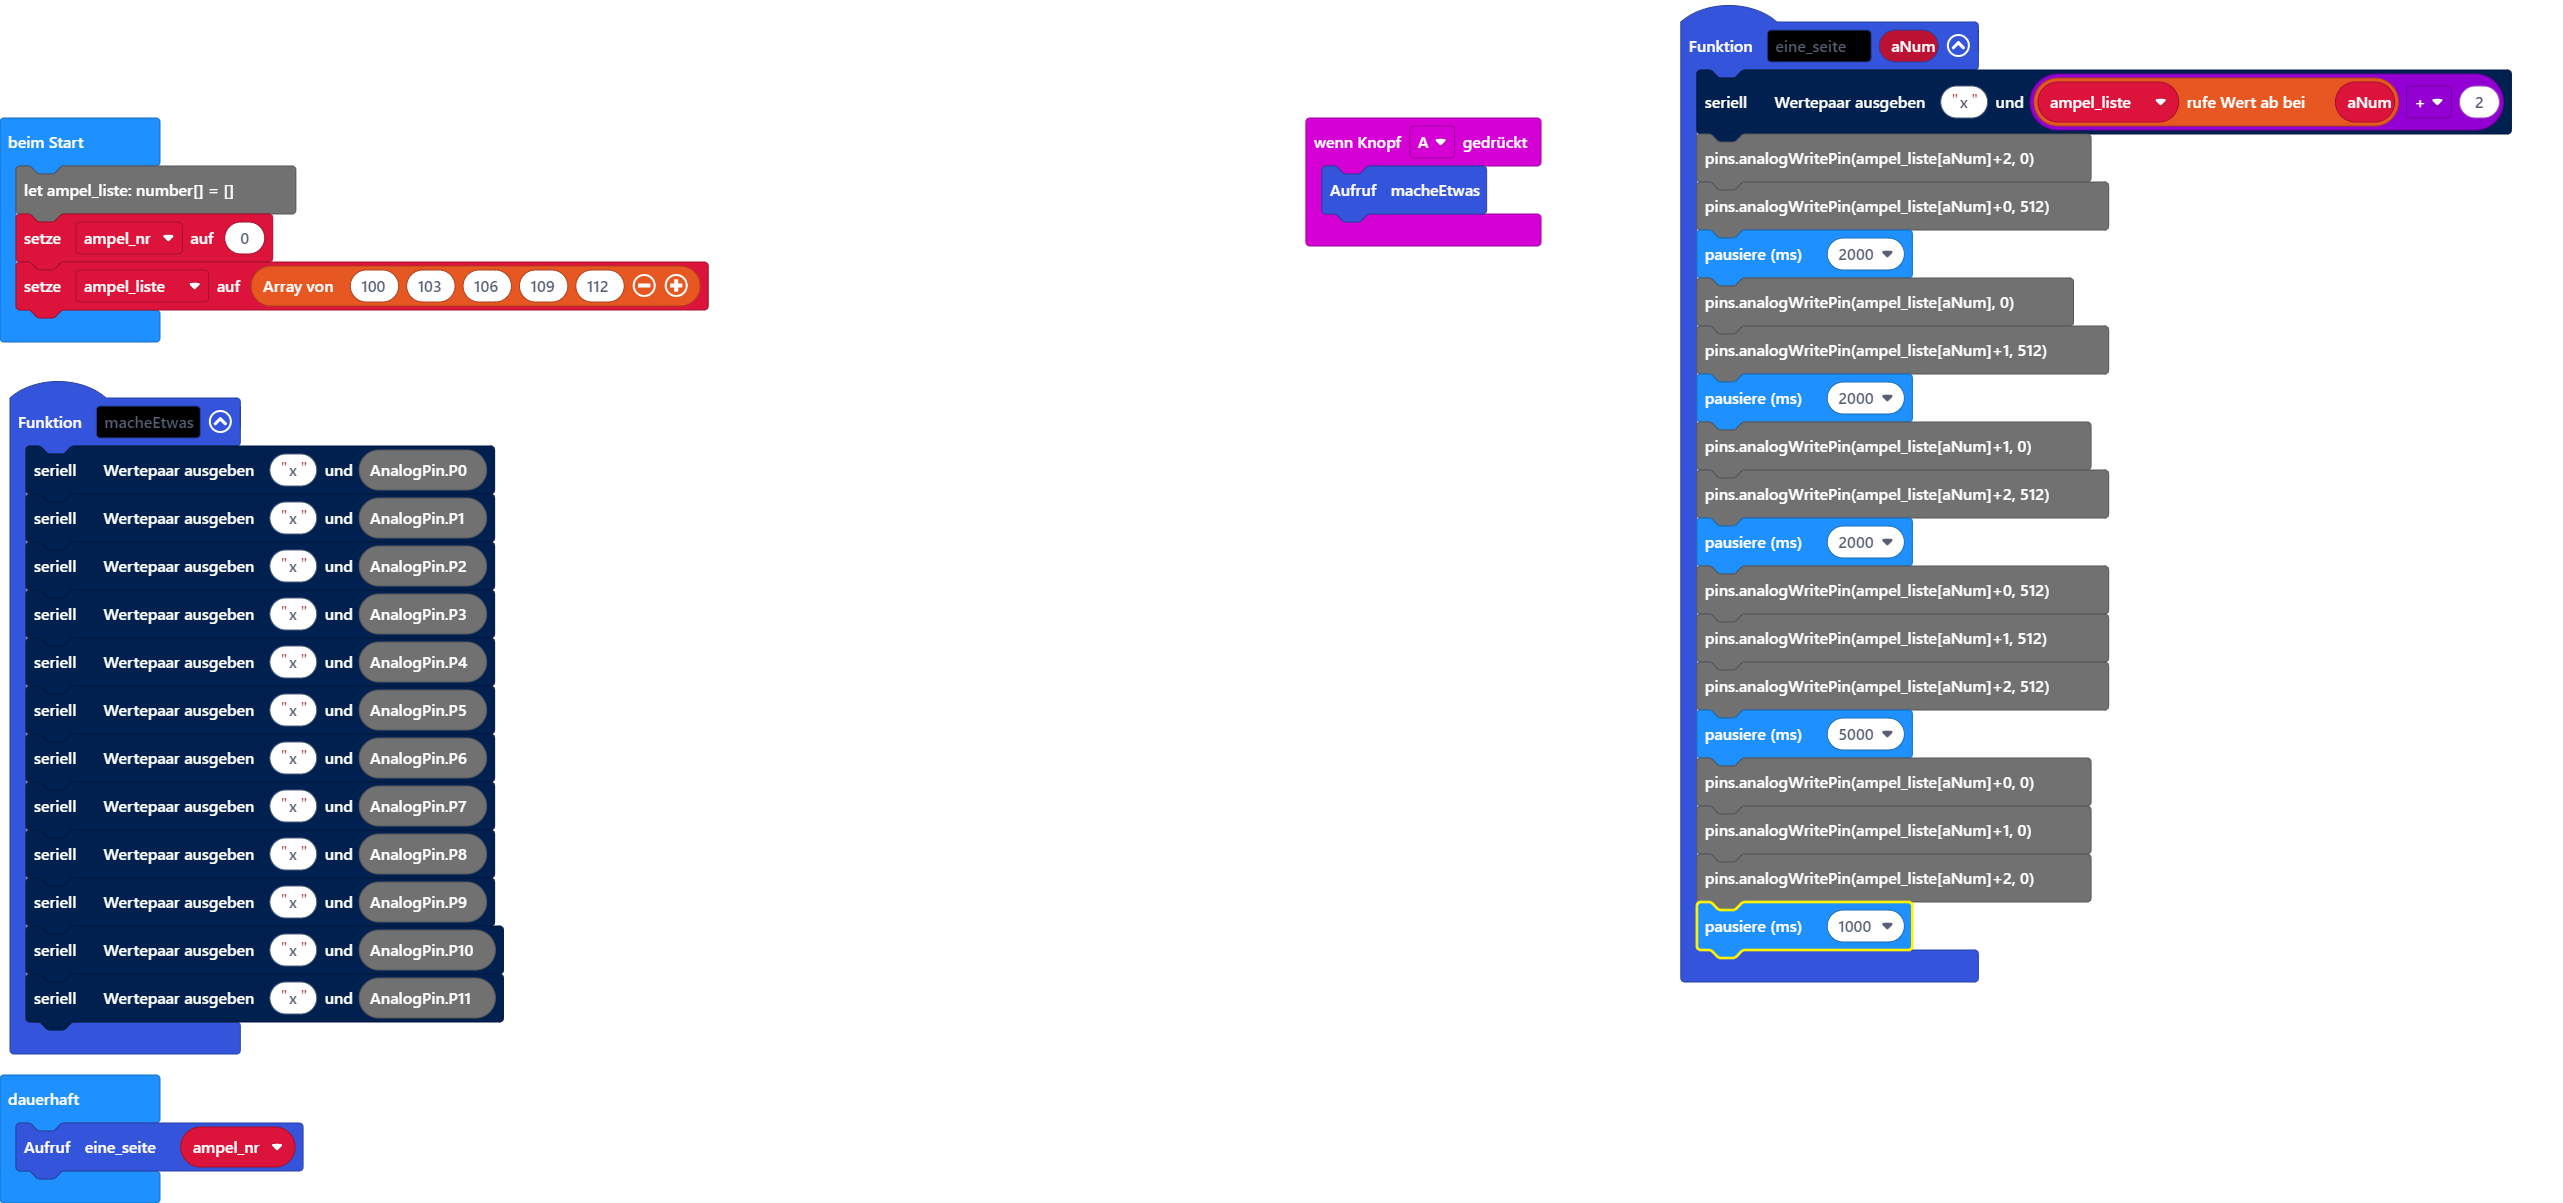
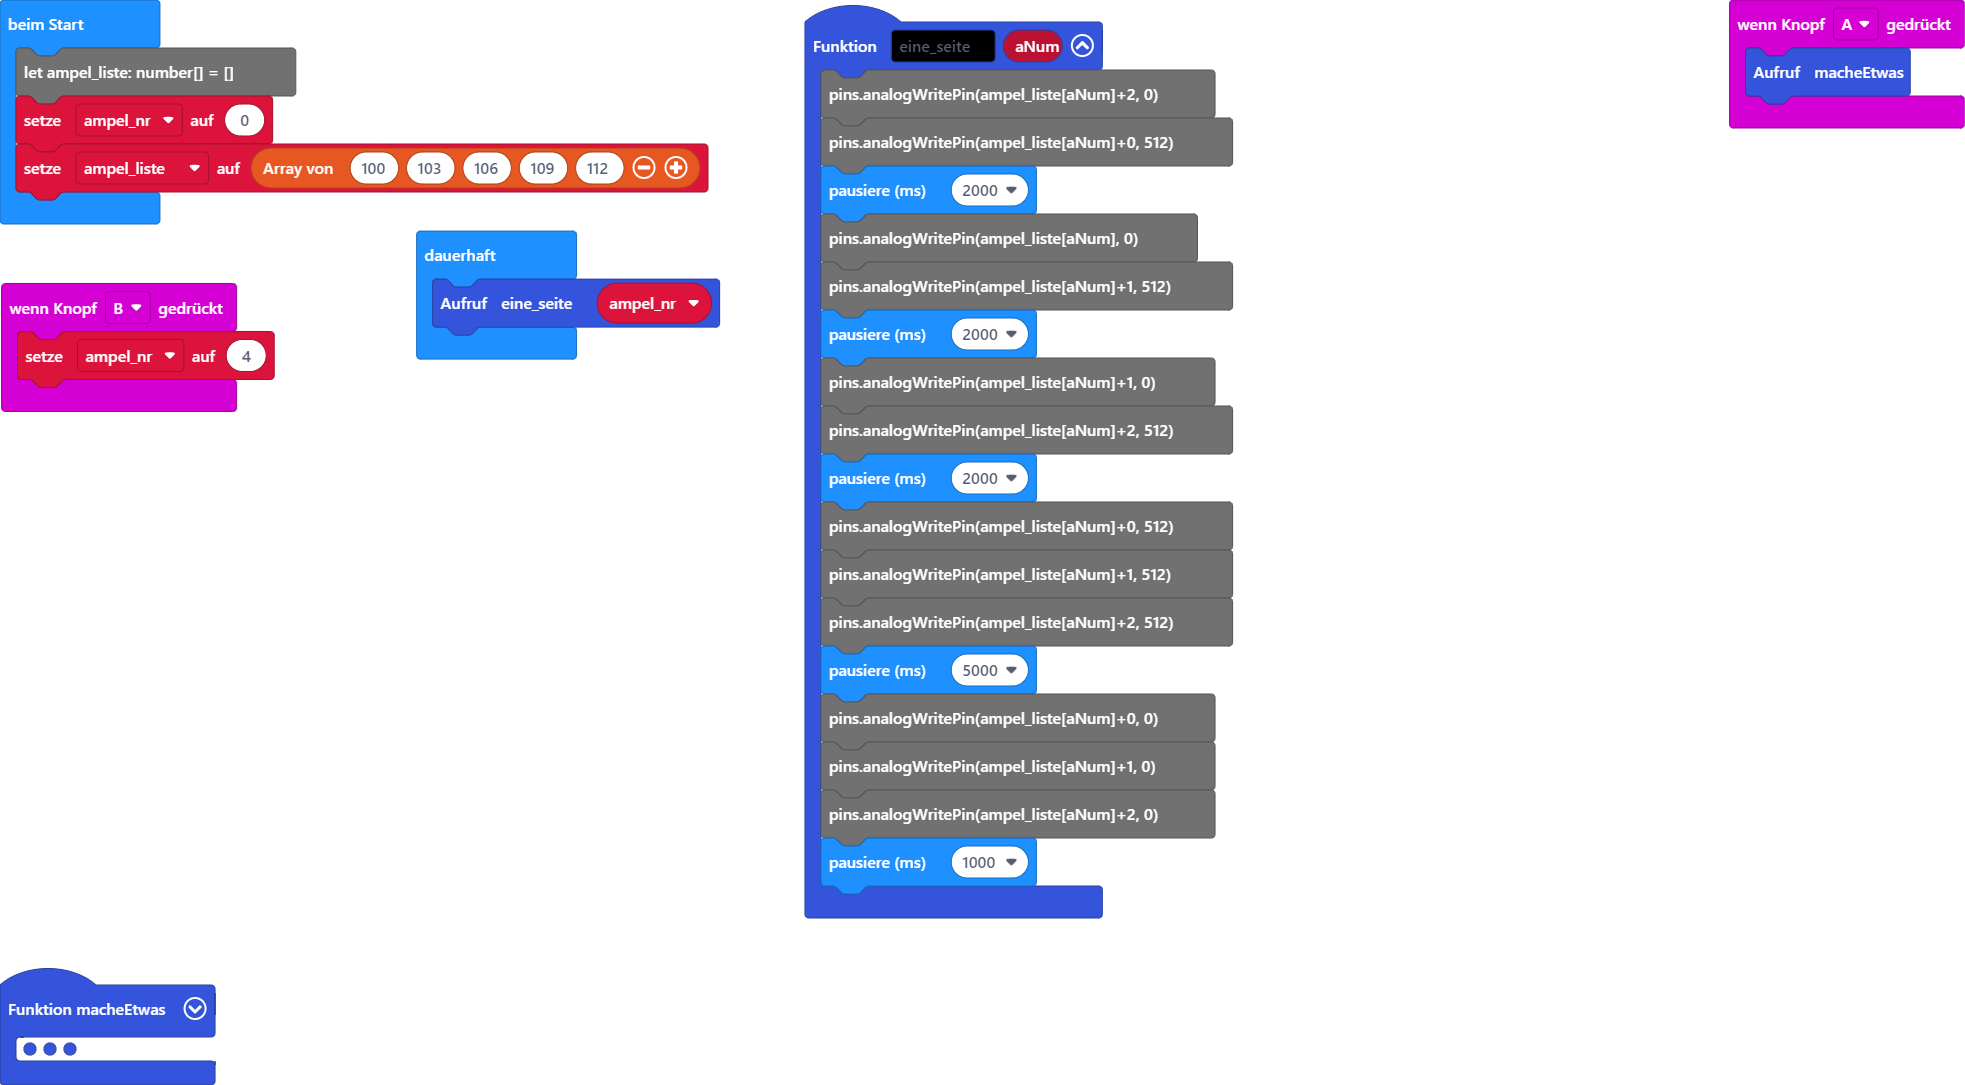
Aktualisiere pxt.json, main.blocks, main.ts

diff --git a/main.ts b/main.ts
@@ -1,22 +1,27 @@
 function macheEtwas () {
-    serial.writeValue("x", AnalogPin.P0)
-    serial.writeValue("x", AnalogPin.P1)
-    serial.writeValue("x", AnalogPin.P2)
-    serial.writeValue("x", AnalogPin.P3)
-    serial.writeValue("x", AnalogPin.P4)
-    serial.writeValue("x", AnalogPin.P5)
-    serial.writeValue("x", AnalogPin.P6)
-    serial.writeValue("x", AnalogPin.P7)
-    serial.writeValue("x", AnalogPin.P8)
-    serial.writeValue("x", AnalogPin.P9)
-    serial.writeValue("x", AnalogPin.P10)
-    serial.writeValue("x", AnalogPin.P11)
+    serial.writeValue("x0", AnalogPin.P0)
+    serial.writeValue("x1", AnalogPin.P1)
+    serial.writeValue("x2", AnalogPin.P2)
+    serial.writeValue("x3", AnalogPin.P3)
+    serial.writeValue("x4", AnalogPin.P4)
+    serial.writeValue("x5", AnalogPin.P5)
+    serial.writeValue("x6", AnalogPin.P6)
+    serial.writeValue("x7", AnalogPin.P7)
+    serial.writeValue("x8", AnalogPin.P8)
+    serial.writeValue("x9", AnalogPin.P9)
+    serial.writeValue("x10", AnalogPin.P10)
+    serial.writeValue("x11", AnalogPin.P11)
+    serial.writeValue("x12", AnalogPin.P12)
+    serial.writeValue("x13", AnalogPin.P13)
+    serial.writeValue("x14", AnalogPin.P14)
 }
 input.onButtonPressed(Button.A, function () {
     macheEtwas()
 })
+input.onButtonPressed(Button.B, function () {
+    ampel_nr = 4
+})
 function eine_seite (aNum: number) {
-    serial.writeValue("x", ampel_liste[aNum] + 2)
     pins.analogWritePin(ampel_liste[aNum]+2, 0)
 pins.analogWritePin(ampel_liste[aNum]+0, 512)
 basic.pause(2000)
@@ -35,8 +40,9 @@ pins.analogWritePin(ampel_liste[aNum]+1, 0)
 pins.analogWritePin(ampel_liste[aNum]+2, 0)
 basic.pause(1000)
 }
-let ampel_liste: number[] = []
 let ampel_nr = 0
+let ampel_liste: number[] = []
+ampel_nr = 0
 ampel_liste = [100, 103, 106, 109, 112]
 basic.forever(function () {
     eine_seite(ampel_nr)
